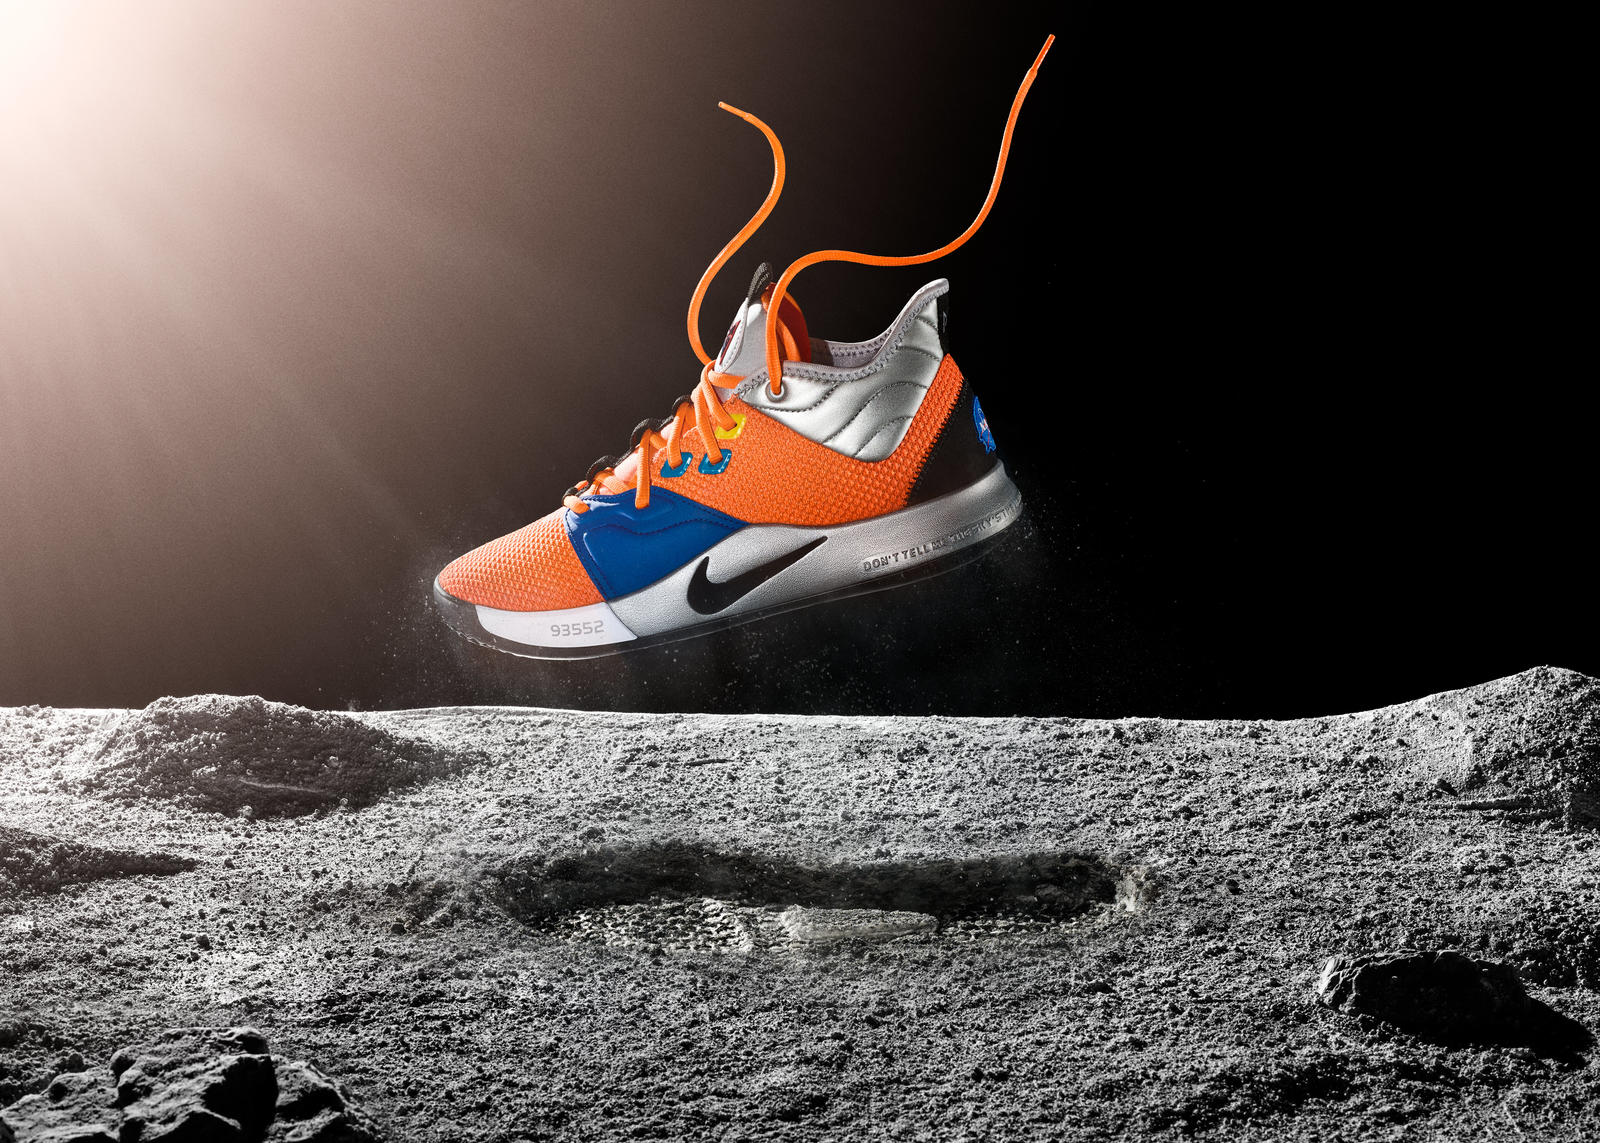
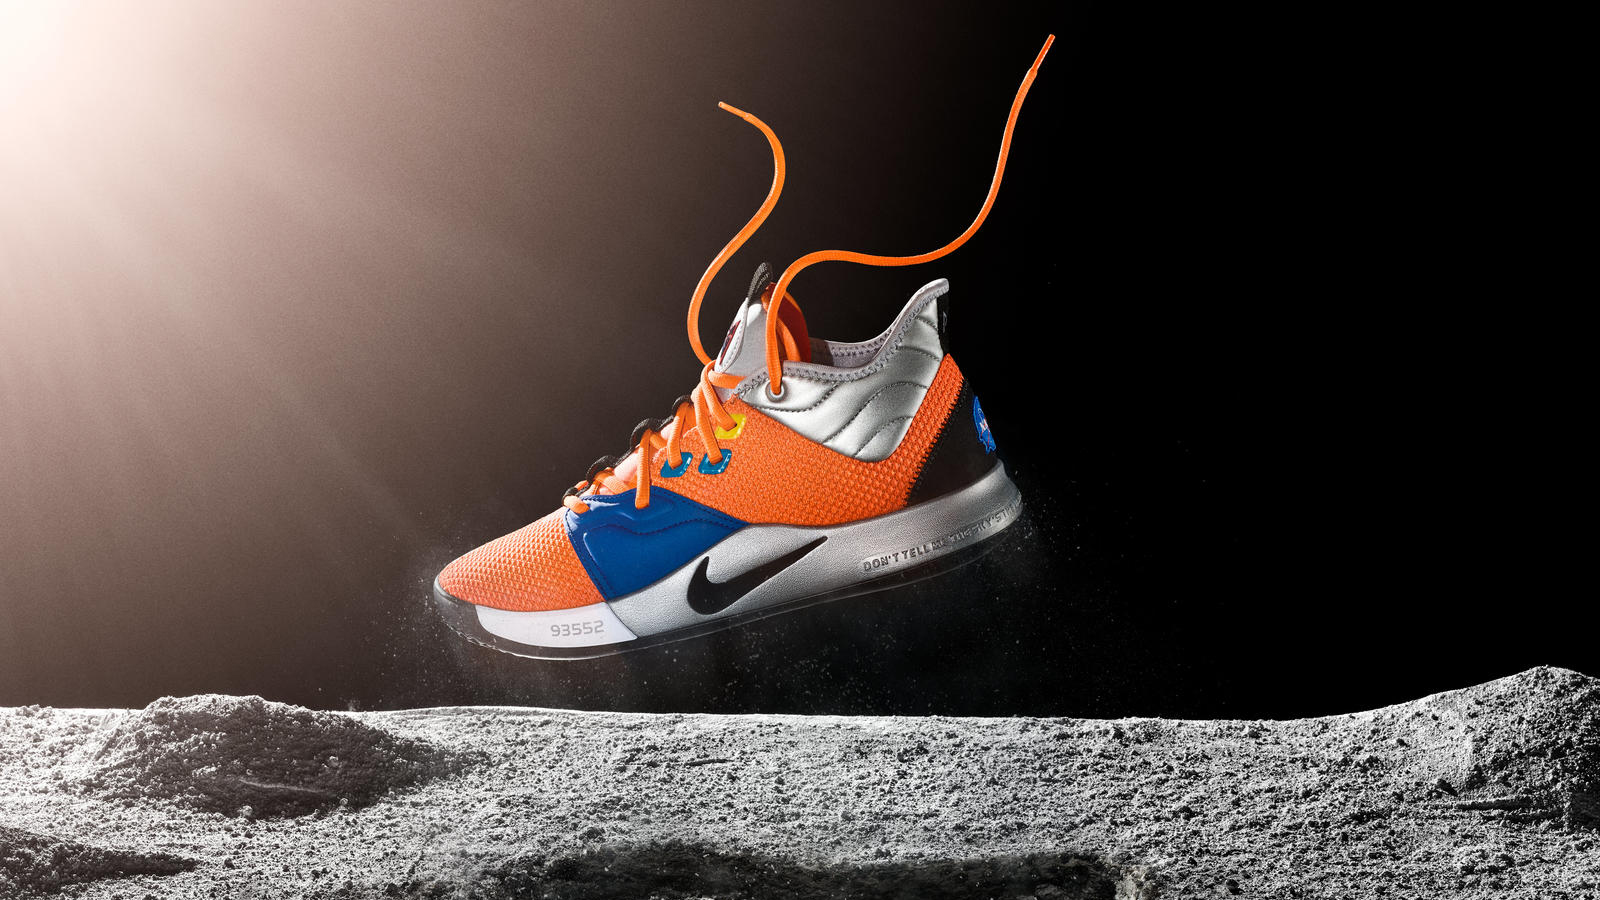
made slider pic position absolute

diff --git a/new-front/src/app/parts/carousel/carousel.component.html b/new-front/src/app/parts/carousel/carousel.component.html
@@ -1,9 +1,9 @@
 <div class="slider-wrapper" id="container">
-  <ul class="slider-list" >
+  <ul class="slider-list">
     <li *ngFor="let slide of imgSlides; index as i; trackBy: trackByFn" >
-      <div class="slide-wrapper" *ngIf="i==slidePointer" [@slideInOut1]>
-          <img [src]=slide.img>
-      </div>
+      <!-- <div class="slide-wrapper" *ngIf="i==slidePointer" [@slideInOut1]> -->
+          <img class="slide-wrapper" [src]=slide.img *ngIf="i==slidePointer" [@slideInOut1]>
+      <!-- </div> -->
     </li> 
   </ul>
   <button class="left-slide-btn" (click)=moveLeft()><i class="fa fa-chevron-circle-left slide-icon"></i></button> 

diff --git a/new-front/src/app/parts/carousel/carousel.component.less b/new-front/src/app/parts/carousel/carousel.component.less
@@ -1,16 +1,16 @@
 .slide-wrapper {
     width: 100%;
-    img {
-        width: 100%;
-        max-width: 1438px;
-        display: block;
-        height: 800px;
-        margin: 0 auto;
-    }
+    position: absolute;
+    top: 0;
+    left: 0;
+    width: 100%;
+    max-width: 1438px;
 }
 .slider-list {
+    position: relative;
     padding: 0;
     margin: 0;
+    height: 800px;
     li {
         list-style: none;
     }
@@ -41,8 +41,5 @@
 }
 .slider-wrapper {
     position: relative;
-}
-.test {
-    opacity: 1;
-    transition: 1s;
+    //display: flex;
 }

diff --git a/new-front/src/app/parts/basket-popup/basket-popup.component.html b/new-front/src/app/parts/basket-popup/basket-popup.component.html
@@ -1,5 +1,5 @@
 <div class="basket-popup">
-    <span class="close"(click)="onClose()">X</span>
+    <span class="close"(click)="onClose()"><i class="fa fa-times" aria-hidden="true"></i></span>
     <table class="table">
         <thead>
           <tr>

diff --git a/new-front/src/app/parts/carousel/carousel.component.ts b/new-front/src/app/parts/carousel/carousel.component.ts
@@ -56,10 +56,7 @@ export class CarouselComponent implements OnInit {
 
   ngOnInit() {
     //slider 24
-    setInterval(()=>{
-      this.moveRight() 
-    }, 5000)
+    setInterval( this.moveRight, 5000)
   }
-   
 }
 
